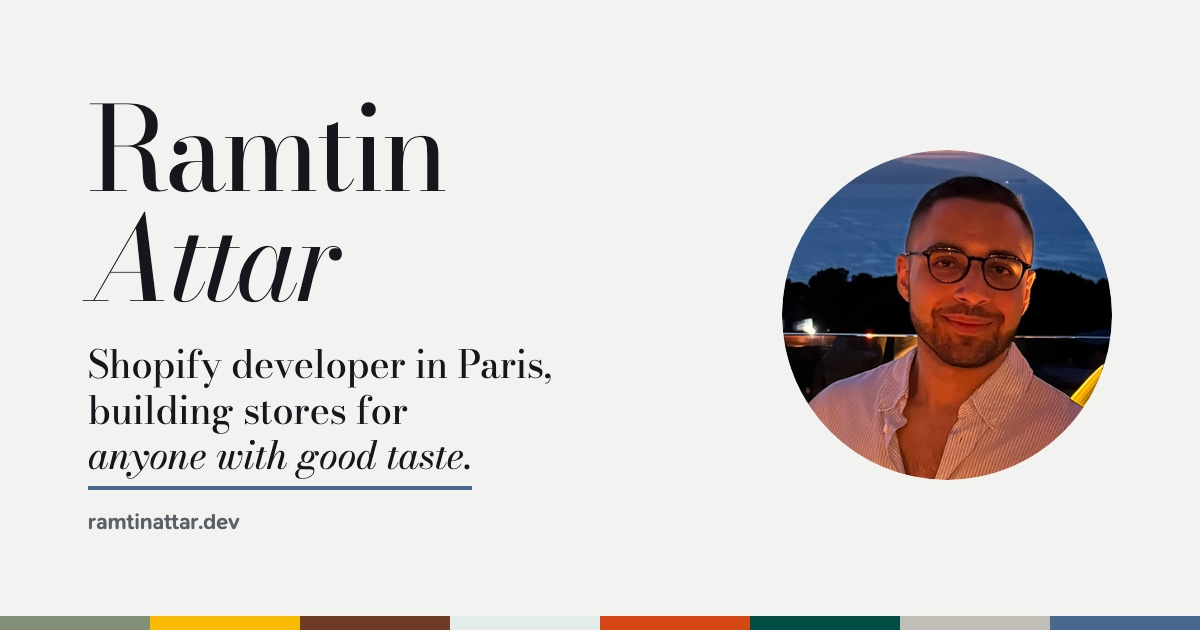
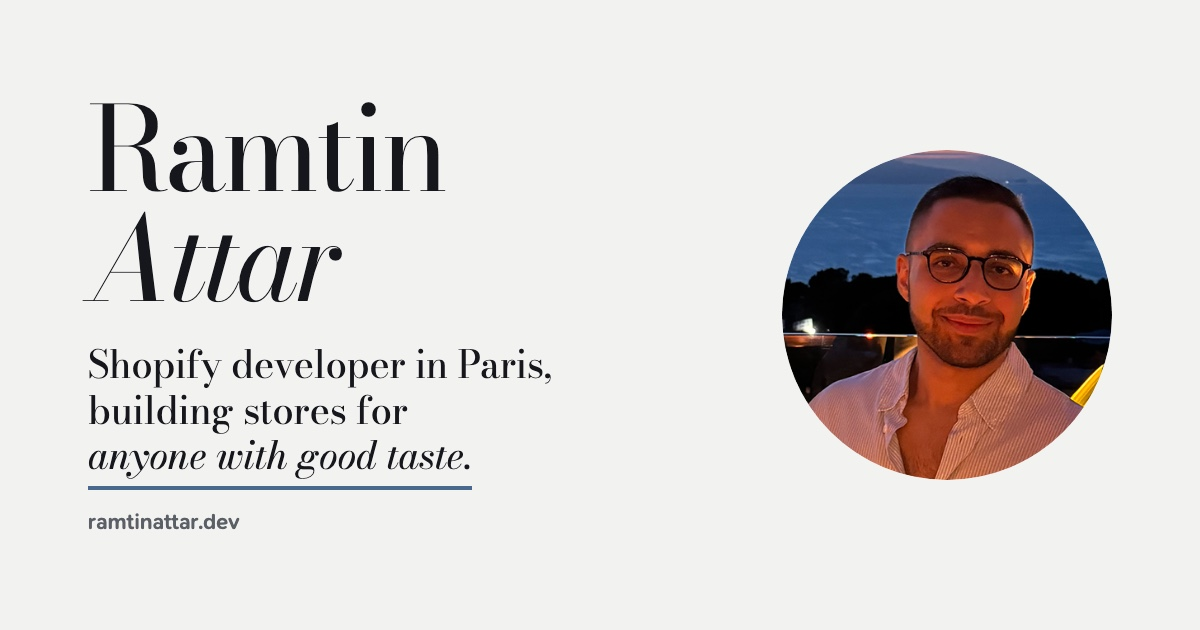
Remove the colour strip from the link preview image

Changed region(s): [[0.4933, 0.9651, 1.0, 1.0], [0.0, 0.9651, 0.4008, 1.0]]

diff --git a/docs/index.html b/docs/index.html
@@ -9,7 +9,7 @@
     <meta property="og:url" content="https://ramtinattar.dev/">
     <meta property="og:title" content="Ramtin Attar">
     <meta property="og:description" content="Shopify developer in Paris, building stores for brands that care about the details.">
-    <meta property="og:image" content="https://ramtinattar.dev/assets/og-image.jpg">
+    <meta property="og:image" content="https://ramtinattar.dev/assets/og-image.jpg?v=2">
     <meta property="og:image:width" content="1200">
     <meta property="og:image:height" content="630">
     <meta property="og:image:alt" content="Ramtin Attar, Shopify developer in Paris">
